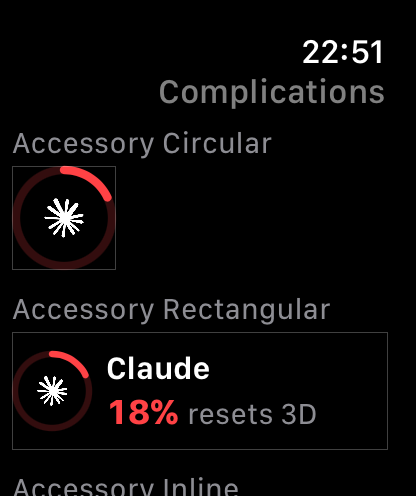
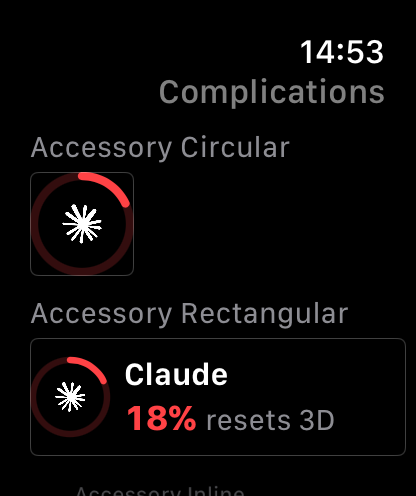
Keep every Watch row the same shape on 46 mm and 40 mm
The reset badge moves to the title line (or, on a small watch where the
name and badge don't both fit, to the caption line), and the countdown
shortens to "62% 2H" before a row would wrap.

diff --git a/Apple/WatchApp/WatchUsageView.swift b/Apple/WatchApp/WatchUsageView.swift
@@ -164,22 +164,12 @@ private struct WatchQuotaRow: View {
                     .foregroundStyle(.primary)
             }
 
-            VStack(alignment: .leading, spacing: 2) {
-                WatchToolTitle(name: tool.displayName, phase: phase)
-                    .font(.headline)
-
-                remainingAndReset
-
-                if tool.otherLimitCount > 0 {
-                    ViewThatFits(in: .horizontal) {
-                        Text("\(limit.displayName) · +\(tool.otherLimitCount) more")
-                            .fixedSize(horizontal: true, vertical: false)
-                        Text("+\(tool.otherLimitCount) more")
-                    }
-                    .font(.caption2)
-                    .foregroundStyle(.secondary)
-                    .lineLimit(1)
-                }
+            // The reset badge sits at the end of the title line, as on the
+            // iPhone. On a small watch where the name and badge don't both
+            // fit, it moves to the caption line so the name stays whole.
+            ViewThatFits(in: .horizontal) {
+                details(phase: phase, badgeOnTitleLine: true)
+                details(phase: phase, badgeOnTitleLine: false)
             }
             .frame(maxWidth: .infinity, alignment: .leading)
         }
@@ -187,6 +177,44 @@ private struct WatchQuotaRow: View {
         .accessibilityElement(children: .ignore)
         .accessibilityLabel(accessibilityTitle(phase: phase))
         .accessibilityValue(accessibilitySummary)
+    }
+
+    private func details(phase: WatchSessionPhase?, badgeOnTitleLine: Bool) -> some View {
+        let hasBadge = (tool.availableResetCount ?? 0) > 0
+        return VStack(alignment: .leading, spacing: 2) {
+            if badgeOnTitleLine {
+                HStack(alignment: .firstTextBaseline, spacing: 4) {
+                    WatchToolTitle(name: tool.displayName, phase: phase)
+                        .font(.headline)
+                    Spacer(minLength: 0)
+                    ResetCreditBadge(count: tool.availableResetCount)
+                }
+                .fixedSize(horizontal: true, vertical: false)
+            } else {
+                WatchToolTitle(name: tool.displayName, phase: phase)
+                    .font(.headline)
+            }
+
+            remainingAndReset
+
+            if tool.otherLimitCount > 0 || (hasBadge && !badgeOnTitleLine) {
+                HStack(spacing: 4) {
+                    if tool.otherLimitCount > 0 {
+                        ViewThatFits(in: .horizontal) {
+                            Text("\(limit.displayName) · +\(tool.otherLimitCount) more")
+                                .fixedSize(horizontal: true, vertical: false)
+                            Text("+\(tool.otherLimitCount) more")
+                        }
+                        .font(.caption2)
+                        .foregroundStyle(.secondary)
+                        .lineLimit(1)
+                    }
+                    if !badgeOnTitleLine {
+                        ResetCreditBadge(count: tool.availableResetCount)
+                    }
+                }
+            }
+        }
     }
 
     private var remainingAndReset: some View {
@@ -198,35 +226,35 @@ private struct WatchQuotaRow: View {
             .lineLimit(1)
             .minimumScaleFactor(0.8)
 
+        // "62% resets 2H", then "62% 2H" on small watches, and only then two lines.
         return ViewThatFits(in: .horizontal) {
             HStack(alignment: .firstTextBaseline, spacing: 4) {
                 percent
-                resetLine
+                resetText(ResetCountdown.phrase(until: window.resetAt, now: now))
+            }
+            .fixedSize(horizontal: true, vertical: false)
+
+            HStack(alignment: .firstTextBaseline, spacing: 4) {
+                percent
+                resetText(window.resetAt == nil ? nil : ResetCountdown.compact(until: window.resetAt, now: now))
             }
             .fixedSize(horizontal: true, vertical: false)
 
             VStack(alignment: .leading, spacing: 1) {
                 percent
-                resetLine
+                resetText(ResetCountdown.phrase(until: window.resetAt, now: now))
             }
         }
     }
 
     @ViewBuilder
-    private var resetLine: some View {
-        let reset = ResetCountdown.phrase(until: limit.tightestWindow.resetAt, now: now)
-        if reset != nil || (tool.availableResetCount ?? 0) > 0 {
-            HStack(alignment: .firstTextBaseline, spacing: 4) {
-                if let reset {
-                    Text(reset)
-                        .font(.caption2)
-                        .monospacedDigit()
-                        .foregroundStyle(.secondary)
-                        .lineLimit(1)
-                        .minimumScaleFactor(0.8)
-                }
-                ResetCreditBadge(count: tool.availableResetCount)
-            }
+    private func resetText(_ text: String?) -> some View {
+        if let text {
+            Text(text)
+                .font(.caption2)
+                .monospacedDigit()
+                .foregroundStyle(.secondary)
+                .lineLimit(1)
         }
     }
 
